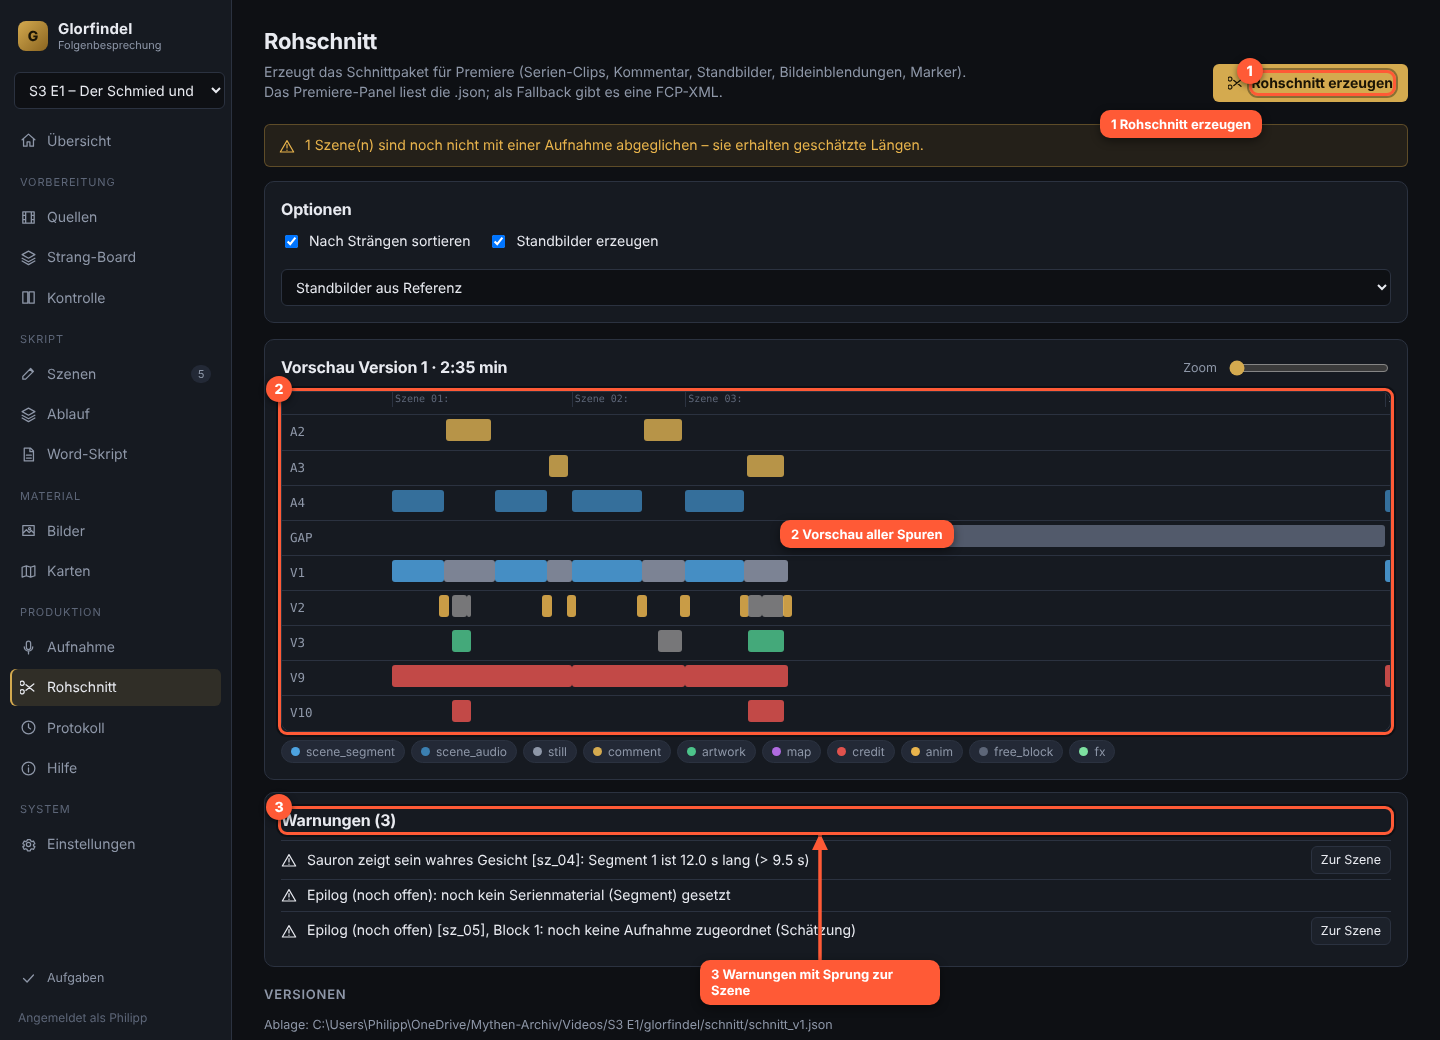
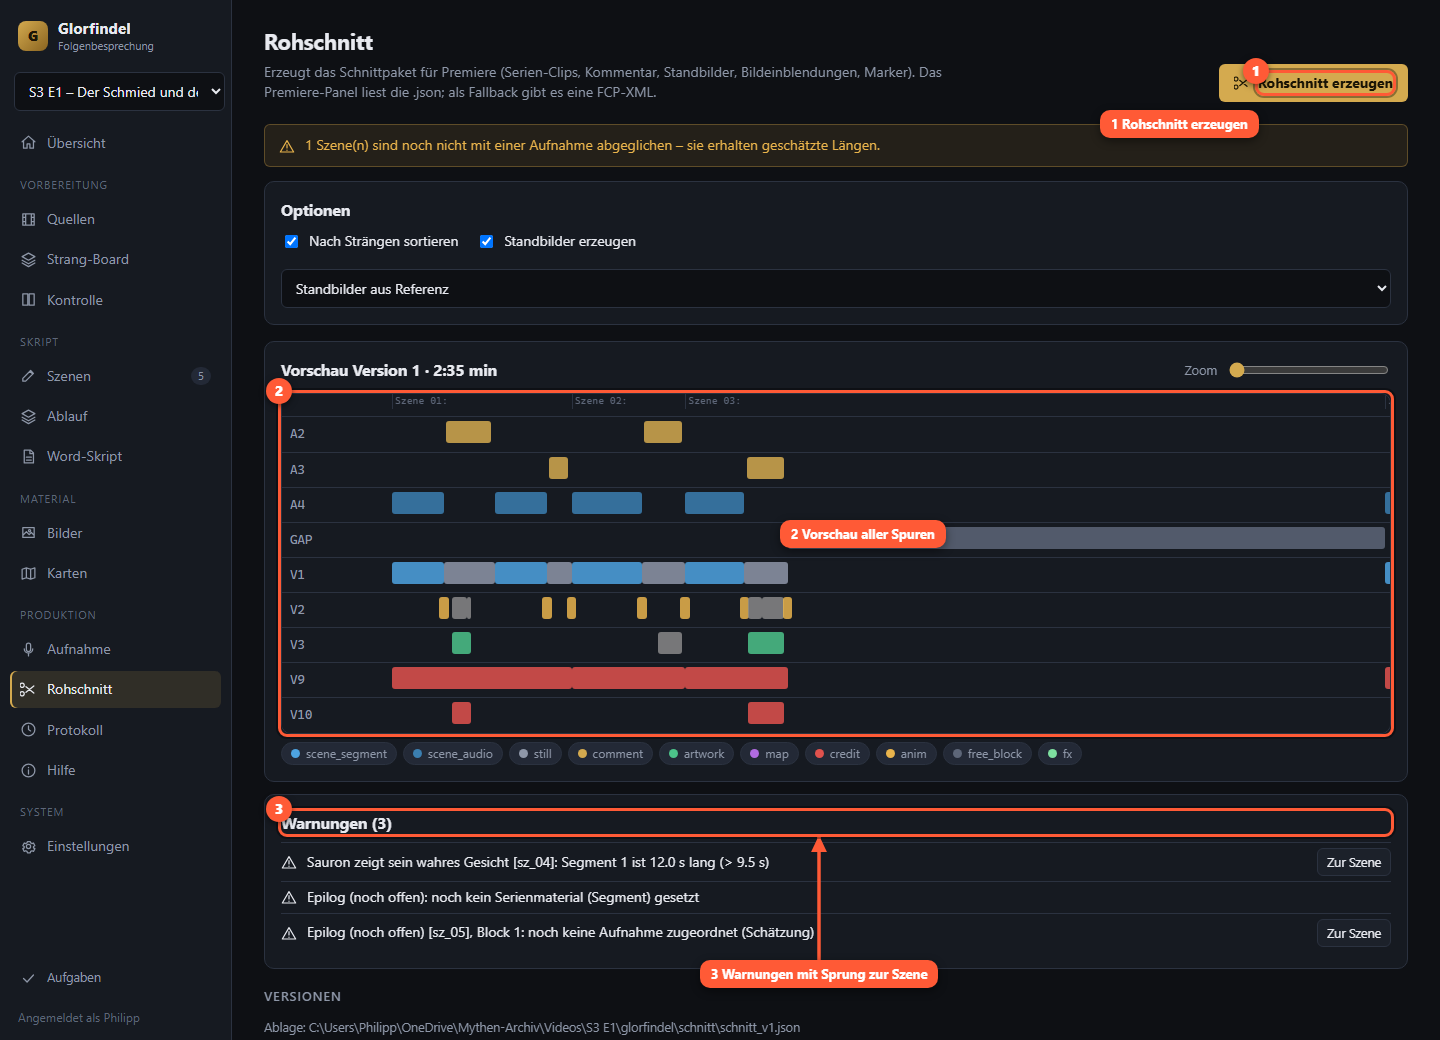
Hilfe-Screenshots neu erzeugt (Ladeanzeige abwarten, Browser-Start plattformunabhängig); Sicherheit: Pfadauflösung bei Konfliktlösung, Aufnahmepfade nur Medien, CSRF-Prüfung ohne Origin

diff --git a/server/glorfindel/routes_prod.py b/server/glorfindel/routes_prod.py
@@ -17,6 +17,18 @@ from .service import Episode
 from .timemap import TimeMap
 
 router = APIRouter()
+MEDIA_EXT = {".wav", ".mp3", ".m4a", ".flac", ".ogg", ".aac", ".aif", ".aiff", ".mp4", ".mov", ".mkv", ".webm"}
+
+
+def _rec_file(ep: Episode, path: str) -> Path:
+    """Aufnahmedatei auflösen: nur Audio/Video-Dateien; außerhalb des OneDrive-Stamms nur absolute Pfade dieser Art."""
+    p = Path(path)
+    f = (p if p.is_absolute() else Path(ep.p.root) / p).resolve()
+    if f.suffix.lower() not in MEDIA_EXT:
+        raise HTTPException(400, "Nur Audio-/Videodateien erlaubt")
+    if not f.is_file():
+        raise HTTPException(404, f"Aufnahme nicht gefunden: {path}")
+    return f
 
 
 # ---------- Word ----------
@@ -210,9 +222,7 @@ def recording(ep: Episode = Depends(ep_of)):
 def add_recording(body: AddRecording, ep: Episode = Depends(ep_of)):
     if body.speaker not in ("philipp", "danny", "alle"):
         raise HTTPException(400, "Sprecher: philipp, danny oder alle")
-    p = Path(body.path)
-    if not (p if p.is_absolute() else Path(ep.p.root) / p).is_file():
-        raise HTTPException(404, f"Aufnahme nicht gefunden: {body.path}")
+    _rec_file(ep, body.path)
     return pipeline.add_recording(ep, body.path, body.speaker)
 
 
@@ -232,7 +242,7 @@ def waveform(rid: str, ep: Episode = Depends(ep_of)):
     cache = ep.p.cache() / f"wave_{rid}.json"
     peaks = store.read_json(cache)
     if peaks is None:
-        peaks = media.waveform_peaks(ep.p.root / rec["path"], buckets=3000)
+        peaks = media.waveform_peaks(_rec_file(ep, rec["path"]), buckets=3000)
         store.write_json(cache, peaks)
     return {"peaks": peaks, "duration": rec["duration"]}
 
@@ -242,7 +252,7 @@ def rec_audio(rid: str, ep: Episode = Depends(ep_of)):
     rec = next((r for r in pipeline.load_alignment(ep)["recordings"] if r["id"] == rid), None)
     if not rec:
         raise HTTPException(404)
-    return FileResponse(ep.p.root / rec["path"])
+    return FileResponse(_rec_file(ep, rec["path"]))
 
 
 class BlockTiming(BaseModel):

diff --git a/tests/test_api.py b/tests/test_api.py
@@ -202,3 +202,20 @@ def test_recording_api_without_whisper(client, tmp_path):
     t = client.put("/api/ep/3/1/recording/block", json={"scene": "sz_01", "block": 0, "t_in": 1.0, "t_out": 4.0}).json()
     assert t["manual"] and client.get("/api/ep/3/1/recording").json()["scenes"]["sz_01"][0]["in"] == 1.0
     assert client.post("/api/ep/3/1/recording/adopt", json={"scene": "sz_01", "block": 0}).status_code == 400
+
+
+def test_security_hardening_paths_and_csrf(client):
+    client.post("/api/episodes", json={"season": 3, "episode": 1})
+    sid = client.post("/api/ep/3/1/scenes", json={"titel": "A"}).json()["id"]
+    d = client.root / "Mythen-Archiv/Videos/S3 E1/glorfindel/szenen"
+    victim = client.root / "geheim.json"
+    victim.write_text("{}", encoding="utf-8")
+    sneaky = str(d / ".." / ".." / ".." / ".." / "geheim.json")        # lexikalisch "unter" szenen, real außerhalb
+    r = client.post("/api/ep/3/1/conflicts/resolve", json={"original": str(d / f"{sid}.json"), "other": sneaky, "keep": "copy"})
+    assert r.status_code == 400 and victim.exists()
+    # Aufnahmen: nur Mediendateien
+    (client.root / "notiz.txt").write_text("x")
+    assert client.post("/api/ep/3/1/recording", json={"path": "notiz.txt", "speaker": "danny"}).status_code == 400
+    # Browser-CSRF ohne Origin, aber als cross-site gekennzeichnet
+    bad = client.put("/api/settings", json=Settings().model_dump(), headers={"sec-fetch-site": "cross-site"})
+    assert bad.status_code == 403

diff --git a/scripts/make_help_screenshots.py b/scripts/make_help_screenshots.py
@@ -5,6 +5,7 @@ Chromium ohne H.264: Proxy-Videos werden für die Aufnahme per ffmpeg nach WebM 
 """
 from __future__ import annotations
 
+import os
 import subprocess
 import sys
 from pathlib import Path
@@ -79,6 +80,10 @@ shots = []
 
 
 def shot(pg, name, items=None, wait=900, clip=None):
+    try:  # erst fotografieren, wenn die Ladeanzeige verschwunden ist (kalter Start ist langsam)
+        pg.wait_for_function("!document.body.innerText.includes('Wird geladen')", timeout=30000)
+    except Exception:  # noqa: BLE001
+        pass
     pg.wait_for_timeout(wait)
     pg.evaluate(SAN_JS, str(work / 'od'))
     if items:
@@ -90,7 +95,8 @@ def shot(pg, name, items=None, wait=900, clip=None):
 
 
 with sync_playwright() as p:
-    br = p.chromium.launch(executable_path="/opt/pw-browsers/chromium", args=["--no-sandbox"])
+    br = p.chromium.launch(executable_path=os.environ.get("PW_CHROMIUM") or None,
+                           args=["--no-sandbox"] if sys.platform.startswith("linux") else [])
     pg = br.new_page(viewport={"width": 1440, "height": 860})
     msgs = []
     pg.on("console", lambda m: msgs.append(m.text) if "FEHLT" in m.text else None)

diff --git a/server/glorfindel/api.py b/server/glorfindel/api.py
@@ -30,6 +30,10 @@ def create_app(state: AppState | None = None) -> FastAPI:
             return JSONResponse({"detail": "Nur lokaler Zugriff"}, status_code=403)
         if request.method not in ("GET", "HEAD", "OPTIONS"):
             origin = request.headers.get("origin")
+            # Browser senden bei fremden Seiten immer Origin bzw. Sec-Fetch-Site; fehlt Origin, aber der Browser
+            # meldet "cross-site/same-site", wird abgelehnt. Nicht-Browser-Clients (curl, Tests) bleiben möglich.
+            if not origin and request.headers.get("sec-fetch-site", "none") in ("cross-site", "same-site"):
+                return JSONResponse({"detail": "Fremde Herkunft abgelehnt"}, status_code=403)
             if origin:
                 o_full = origin.split("://", 1)[-1]
                 o = o_full.rsplit(":", 1)[0] if not o_full.startswith("[") else o_full.split("]")[0] + "]"

diff --git a/server/glorfindel/routes_core.py b/server/glorfindel/routes_core.py
@@ -404,8 +404,9 @@ class Resolve(BaseModel):
 
 @router.post("/ep/{season}/{episode}/conflicts/resolve")
 def resolve_conflict(body: Resolve, ep: Episode = Depends(ep_of)):
-    orig, copy = Path(body.original), Path(body.other)
-    if ep.p.scenes not in orig.parents or ep.p.scenes not in copy.parents:
+    orig, copy = Path(body.original).resolve(), Path(body.other).resolve()   # ".." und Symlinks auflösen
+    base = ep.p.scenes.resolve()
+    if base not in orig.parents or base not in copy.parents or orig.suffix != ".json" or copy.suffix != ".json":
         raise HTTPException(400, "Pfad außerhalb des Szenenordners")
     if body.keep == "copy":
         store.write_json(orig, store.read_json(copy))
